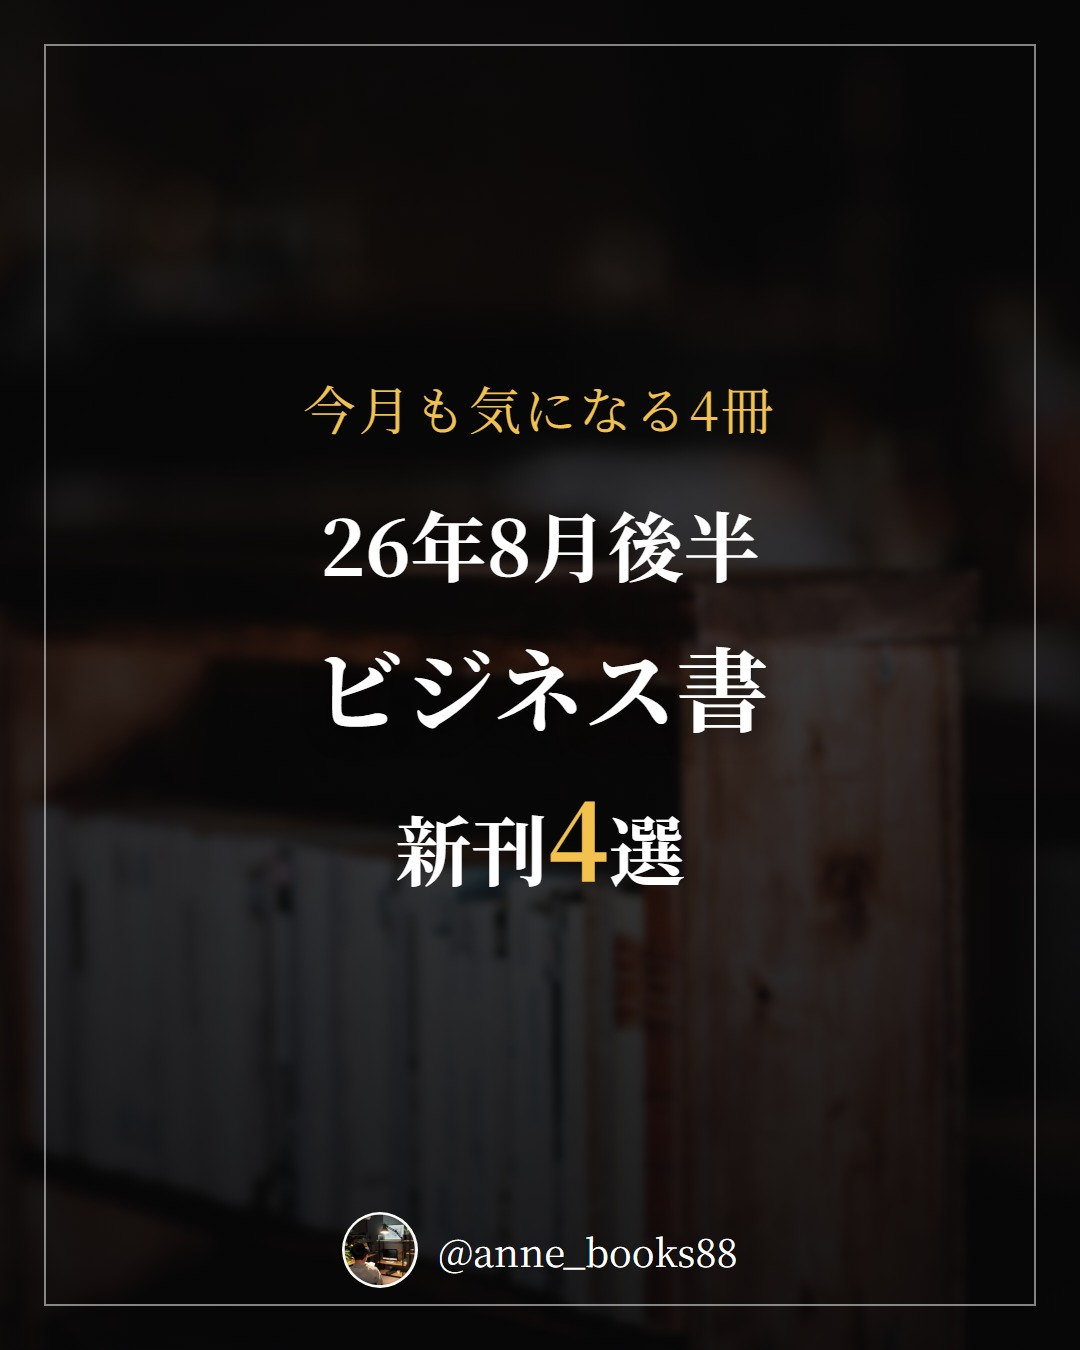
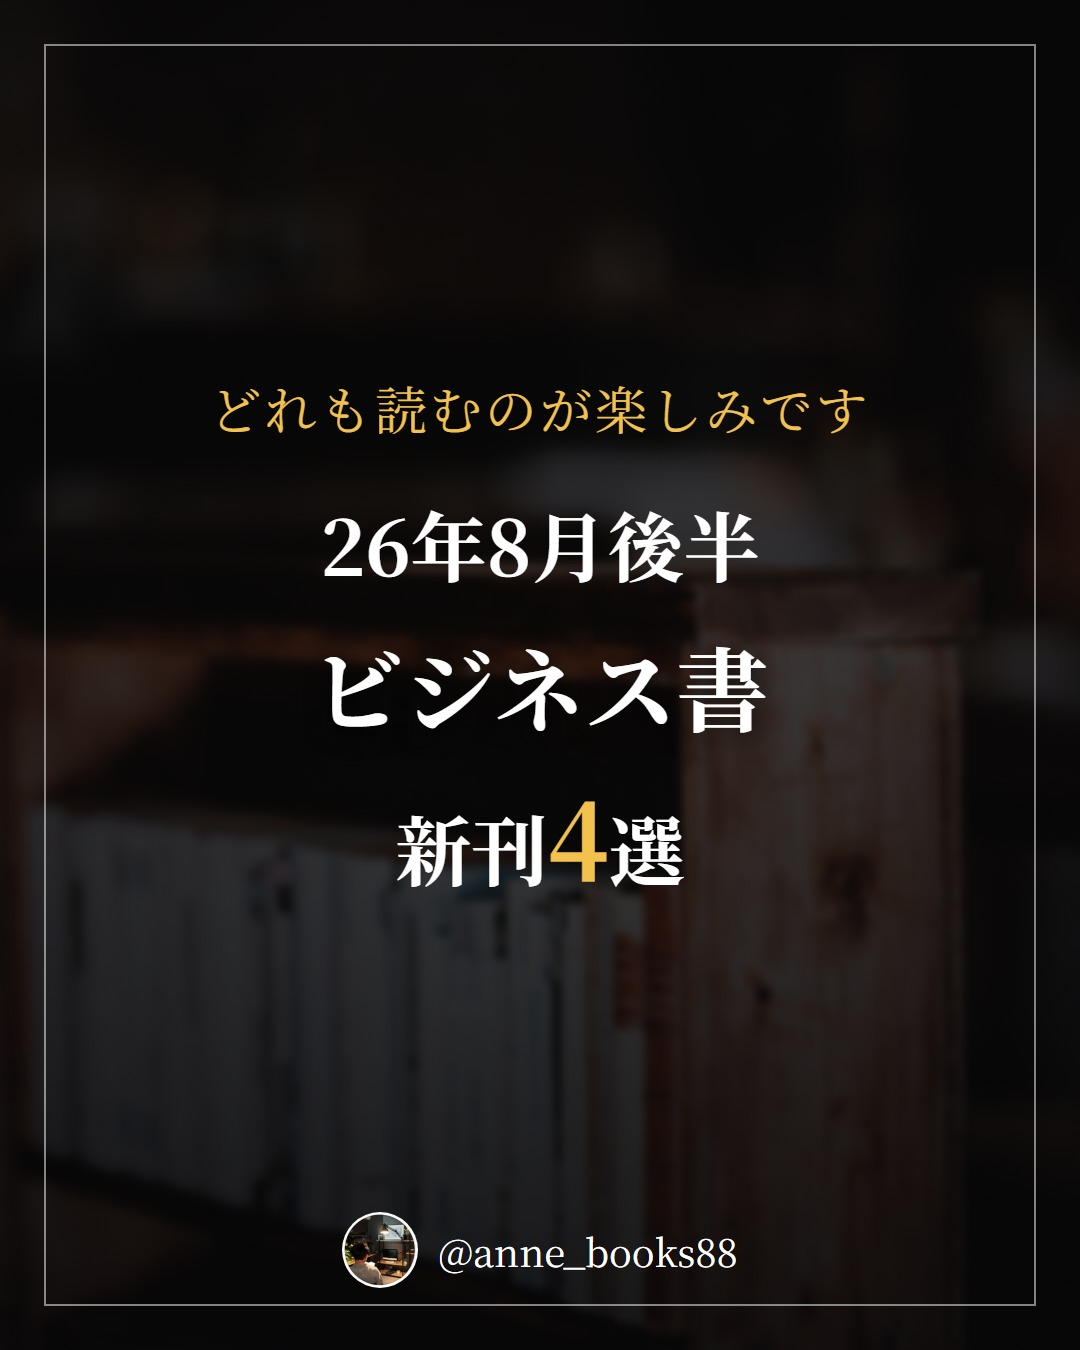
新刊特集のキャプションを見本の構成に合わせた
「◯月後半の気になる新刊をまとめました」で始め、「特に◯冊目の『書名』は」
と順番で示し、最後にコメントを促す形に固定した。

Changed region(s): [[0.1833, 0.28, 0.7944, 0.3422]]

diff --git a/docs/preview/2026-W35.html b/docs/preview/2026-W35.html
@@ -1,0 +1,84 @@
+<!doctype html>
+<html lang="ja"><head><meta charset="utf-8">
+<meta name="viewport" content="width=device-width, initial-scale=1">
+<title>投稿プレビュー 2026-W35</title>
+<style>
+:root { color-scheme: dark; }
+* { box-sizing: border-box; }
+body {
+  margin: 0; padding: 48px 32px 96px;
+  background: #0B0E14; color: #F2F5F9;
+  font-family: "Noto Sans JP", "Hiragino Sans", "Yu Gothic", system-ui, sans-serif;
+  line-height: 1.7;
+}
+.wrap { max-width: 1180px; margin: 0 auto; }
+h1 { font-size: 30px; margin: 0 0 8px; letter-spacing: 0.02em; }
+.lede { color: #8C97A8; margin: 0 0 40px; font-size: 15px; }
+.day {
+  border: 1px solid #232B39; border-radius: 16px;
+  padding: 28px; margin-bottom: 36px; background: #101521;
+}
+.day-head {
+  display: flex; flex-wrap: wrap; align-items: baseline; gap: 14px;
+  padding-bottom: 18px; margin-bottom: 22px; border-bottom: 1px solid #232B39;
+}
+.date { font-size: 22px; font-weight: 800; }
+.badge {
+  font-size: 13px; font-weight: 700; color: #F5B94A;
+  border: 1px solid #F5B94A; border-radius: 999px; padding: 4px 14px;
+}
+.book { color: #8C97A8; font-size: 14px; }
+.cards {
+  display: flex; gap: 14px; overflow-x: auto;
+  padding-bottom: 12px; margin-bottom: 22px;
+}
+.cards img {
+  width: 232px; height: 290px; flex: 0 0 auto;
+  border-radius: 10px; border: 1px solid #232B39; object-fit: cover;
+}
+h3 { font-size: 14px; color: #8C97A8; margin: 22px 0 8px; letter-spacing: 0.08em; }
+pre.caption {
+  white-space: pre-wrap; word-break: break-word; margin: 0;
+  background: #0B0E14; border: 1px solid #232B39; border-radius: 10px;
+  padding: 18px; font-family: inherit; font-size: 14px;
+}
+.tags { display: flex; flex-wrap: wrap; gap: 8px; }
+.tag {
+  font-size: 13px; color: #A8B3C4;
+  background: #0B0E14; border: 1px solid #232B39;
+  border-radius: 6px; padding: 4px 10px;
+}
+ul.grounding { margin: 0; padding-left: 20px; font-size: 13px; color: #8C97A8; }
+ul.grounding li { margin-bottom: 4px; }
+a { color: #F5B94A; }
+.links li { margin-bottom: 10px; }
+</style></head>
+<body><div class="wrap">
+<h1>投稿プレビュー 2026-W35</h1>
+<p class="lede">
+  内容を確認して、問題なければ Pull Request をマージしてください。
+  マージされた日付だけが自動投稿されます。修正する場合は drafts/ 以下の JSON を直接編集してください。
+</p>
+
+    <section class="day">
+      <div class="day-head">
+        <span class="date">08/24 (Mon)</span>
+        <span class="badge">26年8月後半</span>
+        <span class="book">新刊特集</span>
+      </div>
+      <div class="cards"><img src="../img/2026-08-24/01.jpg" alt="card 1" loading="lazy"><img src="../img/2026-08-24/02.jpg" alt="card 2" loading="lazy"><img src="../img/2026-08-24/03.jpg" alt="card 3" loading="lazy"><img src="../img/2026-08-24/04.jpg" alt="card 4" loading="lazy"><img src="../img/2026-08-24/05.jpg" alt="card 5" loading="lazy"><img src="../img/2026-08-24/06.jpg" alt="card 6" loading="lazy"></div>
+      <h3>カードの文言</h3>
+      <ul class="grounding"><li>1 表紙: どれも読むのが楽しみです 26年8月後半 新刊4選</li><li>2 ゆで太郎の儲かる仕組み（2026年8月10日 / 池田 智昭） 注目: 「駅前一等地には出店しない」「職人は育てない」。
+常識の逆を行く選択が22年連続黒字につながった理由を知りたいです。</li><li>3 仕事人生を後悔しない メンタルづくりの教科書（2026年8月10日 / 荻野淳也） 注目: 不安をなくすのではなく、思考のクセを知って対処する。
+がんばりすぎや断れない自分と、どう付き合うかが気になります。</li><li>4 ランサムウェア攻撃対策マニュアルーーサイバーセキュリティ事例研究と防衛戦略（2026年8月10日 / 面 和毅） 注目: 侵入してデータを盗み、最後にランサムウェアを起動する。
+最近の攻撃の流れと、実際の企業の対応事例が読めるのが心強いです。</li><li>5 にゃんこと学ぶ　女性の年金入門（2026年8月10日 / 秦　まり子） 注目: 就職、結婚、出産、離婚とライフイベントごとに変わる年金。
+制度改革の話も含めて、猫と一緒にやさしく学べそうです。</li><li>6 まとめ: チェックリスト</li></ul>
+      <h3>キャプション</h3>
+      <pre class="caption">8月後半の気になる新刊をまとめました。特に1冊目の『ゆで太郎の儲かる仕組み』は、後発ながらそばチェーンの店舗数1位になり、22年連続で黒字という点がまず気になりました。駅前一等地に出店しない、職人を育てない、薄利多売にも頼らない。外食の常識とは逆に見える方針が、競争しない立地戦略や職人技を分解した仕組み化、来店頻度を重視した価格設計として説明されるそうで、そのつながりを読んでみたいです。人手不足時代の組織づくりやフランチャイズ運営にも触れられているとのことなので、外食以外の仕事をしている私にも引き寄せて考えられそうだと思っています。ほかの3冊も、メンタル、セキュリティ、年金と切り口を変えて選びました。おすすめな本があればぜひコメントいただけると幸いです！</pre>
+      <h3>書籍固有ハッシュタグ</h3>
+      <div class="tags"><span class="tag">#新刊</span></div>
+      <h3>根拠メモ (grounding)</h3>
+      <ul class="grounding"><li>17: 内容紹介の「駅前一等地には出店しない」「職人は育てない」「薄利多売にも頼らない」「22年連続黒字」「競争しない立地戦略」「仕組み化」「利益率より来店頻度を重視する価格設計」「そばチェーン業界1位（店舗数）」「人手不足時代の組織づくり、フランチャイズ運営」に基づく</li><li>19: 「本書のゴールは『不安や悩みをなくす』ことではない」「ぜんぶ『思考のクセ』のせいだった」「がんばりすぎ」「断れない」に基づく</li><li>11: 「攻撃者が組織の内部に侵入し、データ窃取を行って最後にランサムウェアを起動する」「第3章 ランサムウェア攻撃の流れ」「第6章 ランサムウェア攻撃の対応事例」に基づく</li><li>16: 「就職、結婚、出産、仕事の再開、子の成人、結婚相手との死別、離婚」「ライフイベントに応じて女性の年金は変化」「制度改革」「にゃんこと一緒に年金制度を学ぼう」に基づく</li></ul>
+    </section>
+    
+</div></body></html>

diff --git a/output/index.html b/output/index.html
@@ -56,5 +56,5 @@ a { color: #F5B94A; }
 <body><div class="wrap">
 <h1>読書Instagram 自動投稿</h1>
 <p class="lede">週次で生成された投稿プレビューの一覧です。</p>
-<ul class="links"><li><a href="https://wyattfuji1220.github.io/Instagram/preview/2026-W34.html">2026-W34 の投稿プレビュー</a></li></ul>
+<ul class="links"><li><a href="https://wyattfuji1220.github.io/Instagram/preview/2026-W35.html">2026-W35 の投稿プレビュー</a></li><li><a href="https://wyattfuji1220.github.io/Instagram/preview/2026-W34.html">2026-W34 の投稿プレビュー</a></li></ul>
 </div></body></html>

diff --git a/docs/index.html b/docs/index.html
@@ -56,5 +56,5 @@ a { color: #F5B94A; }
 <body><div class="wrap">
 <h1>読書Instagram 自動投稿</h1>
 <p class="lede">週次で生成された投稿プレビューの一覧です。</p>
-<ul class="links"><li><a href="preview/2026-W34.html">2026-W34 の投稿プレビュー</a></li></ul>
+<ul class="links"><li><a href="preview/2026-W35.html">2026-W35 の投稿プレビュー</a></li><li><a href="preview/2026-W34.html">2026-W34 の投稿プレビュー</a></li></ul>
 </div></body></html>

diff --git a/src/bookgram/feature.py b/src/bookgram/feature.py
@@ -85,7 +85,11 @@ def _output_schema(candidate_count: int) -> dict[str, Any]:
                 "type": "string",
                 "description": (
                     "キャプション本文。300〜500文字。"
-                    "特に気になる1冊に触れ、最後にコメントを促す。"
+                    "書き出しは「◯月前半（後半）の気になる新刊をまとめました。」。"
+                    "続けて「特に◯冊目の『書名』は」と順番で示してから、"
+                    "なぜ楽しみなのかを書く。"
+                    "最後は「おすすめな本があればぜひコメントいただけると幸いです！」"
+                    "のように、読者にコメントを促す一文で締める。"
                     "ハッシュタグや区切り線は含めない。"
                 ),
             },

diff --git a/output/pr-body.md b/output/pr-body.md
@@ -1,6 +1,6 @@
-## 2026-W34 の投稿下書き
+## 2026-W35 の投稿下書き
 
-2 投稿分（1投稿 = 1冊）。
+1 投稿分（1投稿 = 1冊）。
 
 **このPRをマージした日付だけが、毎朝7時に自動投稿されます。**
 修正する場合は `drafts/` 以下の JSON をこのブランチ上で直接編集してください。
@@ -13,93 +13,21 @@
 
 ---
 
-### 08/20 (Thu) — すごい左利き / 加藤俊徳
-
-<img src="https://raw.githubusercontent.com/wyattfuji1220/Instagram/drafts/2026-W34/docs/img/2026-08-20/01.jpg" width="150"> <img src="https://raw.githubusercontent.com/wyattfuji1220/Instagram/drafts/2026-W34/docs/img/2026-08-20/02.jpg" width="150"> <img src="https://raw.githubusercontent.com/wyattfuji1220/Instagram/drafts/2026-W34/docs/img/2026-08-20/03.jpg" width="150"> <img src="https://raw.githubusercontent.com/wyattfuji1220/Instagram/drafts/2026-W34/docs/img/2026-08-20/04.jpg" width="150"> <img src="https://raw.githubusercontent.com/wyattfuji1220/Instagram/drafts/2026-W34/docs/img/2026-08-20/05.jpg" width="150"> <img src="https://raw.githubusercontent.com/wyattfuji1220/Instagram/drafts/2026-W34/docs/img/2026-08-20/06.jpg" width="150"> <img src="https://raw.githubusercontent.com/wyattfuji1220/Instagram/drafts/2026-W34/docs/img/2026-08-20/07.jpg" width="150"> <img src="https://raw.githubusercontent.com/wyattfuji1220/Instagram/drafts/2026-W34/docs/img/2026-08-20/08.jpg" width="150"> <img src="https://raw.githubusercontent.com/wyattfuji1220/Instagram/drafts/2026-W34/docs/img/2026-08-20/09.jpg" width="150"> <img src="https://raw.githubusercontent.com/wyattfuji1220/Instagram/drafts/2026-W34/docs/img/2026-08-20/10.jpg" width="150">
-
-<details><summary>カードの文言</summary>
-
-> 1 表紙: 理解がワンテンポ遅いのは
-脳をたくさん使っている証拠
-> 2 書誌情報: 2021年9月30日 / 加藤俊徳
-> 3 おすすめ1: 自分が左利きで
-生きづらさを感じたことがある方
-> 3 おすすめ2: 直感やひらめきを
-仕事にもっと活かしたい方
-> 3 おすすめ3: 成長が遅いと感じる自分を
-責めるのをやめたい方
-> 4 問いかけ: 人と同じ速さで
-理解できないことは
-本当に欠点でしょうか
-> 5 本文: 左利きは大器晩成。
-言葉を司るのは左脳なので
-子供の時は成長が遅い
-> 6 本文: 右脳の作用で
-膨大なデータベースから
-即時に判断することが得意
-> 7 本文: 右利きなら当たり前にできることが
-うまくいかない経験から
-忍耐力にも優れる
-> 8 本文: 1日の終わりに
-その日を映像で思い出す。
-右脳を整えるトレーニング
-> 9 まとめ: 遅さの正体は
-脳の使い方の違い。
-左利きの特性を知る一冊
-
-</details>
-
-<details><summary>キャプション</summary>
-
-```
-今回は、脳の使い方から自分の特性を知る一冊です。
-
-1万人の脳を見た医師が、左利きの脳の働きを解説した本。読んでいて特に印象に残ったのは、左利きは大器晩成だという話です。言葉を司るのは左脳なので、子供の時はどうしても右利きの方が理解が早い。つまり幼い頃の「遅さ」は能力の差ではなく、脳の配線の違いだという説明でした。
-
-もう一つ面白かったのが、ワンテンポ理解が遅いのは右脳経由で脳の思考回路をたくさん使っているから、という視点。同じ現象が、欠点ではなく手数の多さとして語られます。その代わりに得意なのが、膨大なデータベースから即時に判断すること。だから左利きは直感やひらめきを大切にするといいのだそうです。
-
-さらに、右利きなら当たり前にできることがうまくいかない経験を重ねるから、忍耐力にも優れていると言われるという指摘も。
-
-具体的なトレーニングとして紹介されていたのは、1日の終わりにその日の出来事を映像で思い出すこと。右脳には様々な情報が浮かんでいるだけで、左脳のように理路整然としているわけではないので、映像で整理する習慣が効くという話でした。
-
-自分の遅さを責めてしまう日がある方に、そっと読んでほしい一冊です。
-
-#すごい左利き #加藤俊徳 #左利き #脳科学 #ビジネス書 #読書記録
-```
-
-</details>
-
-<details><summary>根拠メモ (grounding)</summary>
-
-> - cover・point4段目「ワンテンポ理解が遅いのは右脳経由で脳の思考回路をたくさん使ってるから」＝読書メモ4項目目
-> - point1「左利きは大器晩成。子供の時は成長が遅い（言葉を司るのは左脳）」＝読書メモ1項目目
-> - point2「膨大なデータベースから即時に判断することが得意」＝読書メモ2項目目
-> - point3「右利きなら当たり前にできることがうまくいかない→忍耐力」＝読書メモ3項目目
-> - point4「1日の終わりに映像で思い出すトレーニング」＝読書メモ5項目目
-> - キャプション「1万人の脳を見た医師」＝正式書名の表記に基づく
-> - question・recommend・summaryは読書メモの内容を読者向けに言い換えたもの（メモの範囲内）
-> - 「自分の遅さを責めてしまう」などの読者像はメモから推測した表現（データに直接の根拠なし）
-> - 出版年2021年・著者名・出版社＝書誌データ
-
-</details>
-
----
-
 ### 08/24 (Mon) — 26年8月後半 / 新刊特集
 
-<img src="https://raw.githubusercontent.com/wyattfuji1220/Instagram/drafts/2026-W34/docs/img/2026-08-24/01.jpg" width="150"> <img src="https://raw.githubusercontent.com/wyattfuji1220/Instagram/drafts/2026-W34/docs/img/2026-08-24/02.jpg" width="150"> <img src="https://raw.githubusercontent.com/wyattfuji1220/Instagram/drafts/2026-W34/docs/img/2026-08-24/03.jpg" width="150"> <img src="https://raw.githubusercontent.com/wyattfuji1220/Instagram/drafts/2026-W34/docs/img/2026-08-24/04.jpg" width="150"> <img src="https://raw.githubusercontent.com/wyattfuji1220/Instagram/drafts/2026-W34/docs/img/2026-08-24/05.jpg" width="150"> <img src="https://raw.githubusercontent.com/wyattfuji1220/Instagram/drafts/2026-W34/docs/img/2026-08-24/06.jpg" width="150">
+<img src="https://raw.githubusercontent.com/wyattfuji1220/Instagram/drafts/2026-W35/docs/img/2026-08-24/01.jpg" width="150"> <img src="https://raw.githubusercontent.com/wyattfuji1220/Instagram/drafts/2026-W35/docs/img/2026-08-24/02.jpg" width="150"> <img src="https://raw.githubusercontent.com/wyattfuji1220/Instagram/drafts/2026-W35/docs/img/2026-08-24/03.jpg" width="150"> <img src="https://raw.githubusercontent.com/wyattfuji1220/Instagram/drafts/2026-W35/docs/img/2026-08-24/04.jpg" width="150"> <img src="https://raw.githubusercontent.com/wyattfuji1220/Instagram/drafts/2026-W35/docs/img/2026-08-24/05.jpg" width="150"> <img src="https://raw.githubusercontent.com/wyattfuji1220/Instagram/drafts/2026-W35/docs/img/2026-08-24/06.jpg" width="150">
 
 <details><summary>カードの文言</summary>
 
-> 1 表紙: 今月も気になる4冊 26年8月後半 新刊4選
-> 2 ゆで太郎の儲かる仕組み（2026年8月10日 / 池田 智昭） 注目: 駅前一等地に出店せず職人も育てない。
-常識の逆を行く仕組みの中身が知りたくなります。
-> 3 仕事人生を後悔しない メンタルづくりの教科書（2026年8月10日 / 荻野淳也） 注目: 不安をなくすのではなく思考のクセを知る、という入口。
-悩みへの向き合い方が具体的に整理されそうです。
-> 4 ランサムウェア攻撃対策マニュアルーーサイバーセキュリティ事例研究と防衛戦略（2026年8月10日 / 面 和毅） 注目: 侵入して盗んで最後に暗号化、という攻撃の変化。
-実際の対応事例まで載っているのが心強そうです。
-> 5 にゃんこと学ぶ　女性の年金入門（2026年8月10日 / 秦　まり子） 注目: 就職、結婚、出産、離婚。人生の節目ごとに変わる年金を、
-ライフスタイル別に追える構成が親切だと思いました。
+> 1 表紙: どれも読むのが楽しみです 26年8月後半 新刊4選
+> 2 ゆで太郎の儲かる仕組み（2026年8月10日 / 池田 智昭） 注目: 「駅前一等地には出店しない」「職人は育てない」。
+常識の逆を行く選択が22年連続黒字につながった理由を知りたいです。
+> 3 仕事人生を後悔しない メンタルづくりの教科書（2026年8月10日 / 荻野淳也） 注目: 不安をなくすのではなく、思考のクセを知って対処する。
+がんばりすぎや断れない自分と、どう付き合うかが気になります。
+> 4 ランサムウェア攻撃対策マニュアルーーサイバーセキュリティ事例研究と防衛戦略（2026年8月10日 / 面 和毅） 注目: 侵入してデータを盗み、最後にランサムウェアを起動する。
+最近の攻撃の流れと、実際の企業の対応事例が読めるのが心強いです。
+> 5 にゃんこと学ぶ　女性の年金入門（2026年8月10日 / 秦　まり子） 注目: 就職、結婚、出産、離婚とライフイベントごとに変わる年金。
+制度改革の話も含めて、猫と一緒にやさしく学べそうです。
 > 6 まとめ: チェックリスト
 
 </details>
@@ -107,7 +35,7 @@
 <details><summary>キャプション</summary>
 
 ```
-8月後半の新刊から4冊を選びました。今回いちばん気になっているのは『ゆで太郎の儲かる仕組み』です。後発なのに店舗数で業界1位、そして22年連続黒字。その裏側にあるのが「駅前一等地には出店しない」「職人は育てない」「薄利多売にも頼らない」という、外食産業の常識とは逆の方針だと紹介されています。競争しない立地の選び方、職人技を分解して誰でも再現できるようにする仕組み化、利益率より来店頻度を重視する価格設計。どれも外食に限らず、自分の仕事に置き換えて考えられそうな話で読むのが楽しみです。ほかにも、思考のクセから悩みを捉え直すメンタルの本、ランサムウェア対策を体系的にまとめた一冊、女性の年金をライフイベント別に整理した入門書を選びました。気になった本があれば、番号でこっそり教えてください。
+8月後半の気になる新刊をまとめました。特に1冊目の『ゆで太郎の儲かる仕組み』は、後発ながらそばチェーンの店舗数1位になり、22年連続で黒字という点がまず気になりました。駅前一等地に出店しない、職人を育てない、薄利多売にも頼らない。外食の常識とは逆に見える方針が、競争しない立地戦略や職人技を分解した仕組み化、来店頻度を重視した価格設計として説明されるそうで、そのつながりを読んでみたいです。人手不足時代の組織づくりやフランチャイズ運営にも触れられているとのことなので、外食以外の仕事をしている私にも引き寄せて考えられそうだと思っています。ほかの3冊も、メンタル、セキュリティ、年金と切り口を変えて選びました。おすすめな本があればぜひコメントいただけると幸いです！
 
 #新刊
 ```
@@ -116,11 +44,10 @@
 
 <details><summary>根拠メモ (grounding)</summary>
 
-> - 17: 内容紹介の「駅前一等地には出店しない」「職人は育てない」「薄利多売にも頼らない」「22年連続黒字」「競争しない立地戦略」「職人技を分解して誰でも再現できる仕組み化」「利益率より来店頻度を重視する価格設計」に基づく
-> - 19: 「本書のゴールは不安や悩みをなくすことではない」「ぜんぶ思考のクセのせいだった」「自分の思考パターンを知ることによって悩みや不安に適切に対処できるようになる」に基づく
-> - 11: 「攻撃者が組織の内部に侵入し、データ窃取を行って最後にランサムウェアを起動する」「第6章 ランサムウェア攻撃の対応事例」に基づく
-> - 16: 「就職、結婚、出産、仕事の再開、子の成人、結婚相手との死別、離婚」「ライフスタイル別のポイントを見ながら」に基づく
-> - 資格試験対策書（2〜6）、実務マニュアル（10・13・14・20）、学術書（7・8・9・15）、鉄道趣味書（12）は基準により除外
+> - 17: 内容紹介の「駅前一等地には出店しない」「職人は育てない」「薄利多売にも頼らない」「22年連続黒字」「競争しない立地戦略」「仕組み化」「利益率より来店頻度を重視する価格設計」「そばチェーン業界1位（店舗数）」「人手不足時代の組織づくり、フランチャイズ運営」に基づく
+> - 19: 「本書のゴールは『不安や悩みをなくす』ことではない」「ぜんぶ『思考のクセ』のせいだった」「がんばりすぎ」「断れない」に基づく
+> - 11: 「攻撃者が組織の内部に侵入し、データ窃取を行って最後にランサムウェアを起動する」「第3章 ランサムウェア攻撃の流れ」「第6章 ランサムウェア攻撃の対応事例」に基づく
+> - 16: 「就職、結婚、出産、仕事の再開、子の成人、結婚相手との死別、離婚」「ライフイベントに応じて女性の年金は変化」「制度改革」「にゃんこと一緒に年金制度を学ぼう」に基づく
 
 </details>
 
